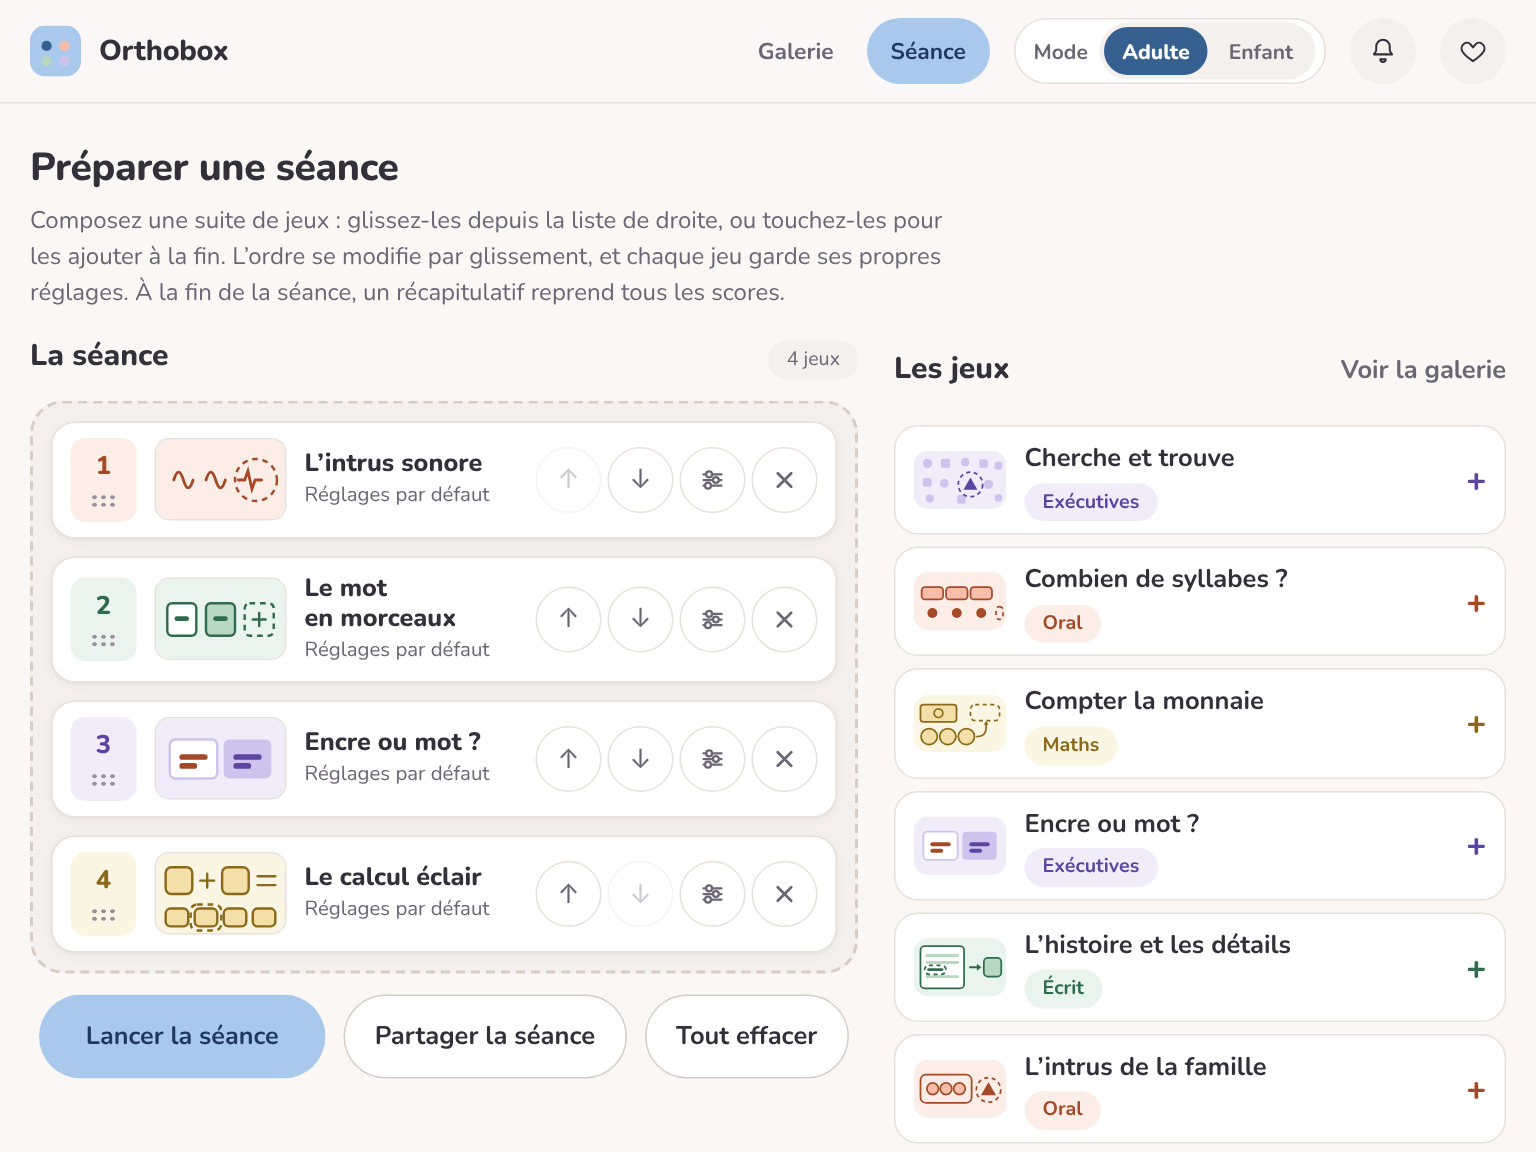
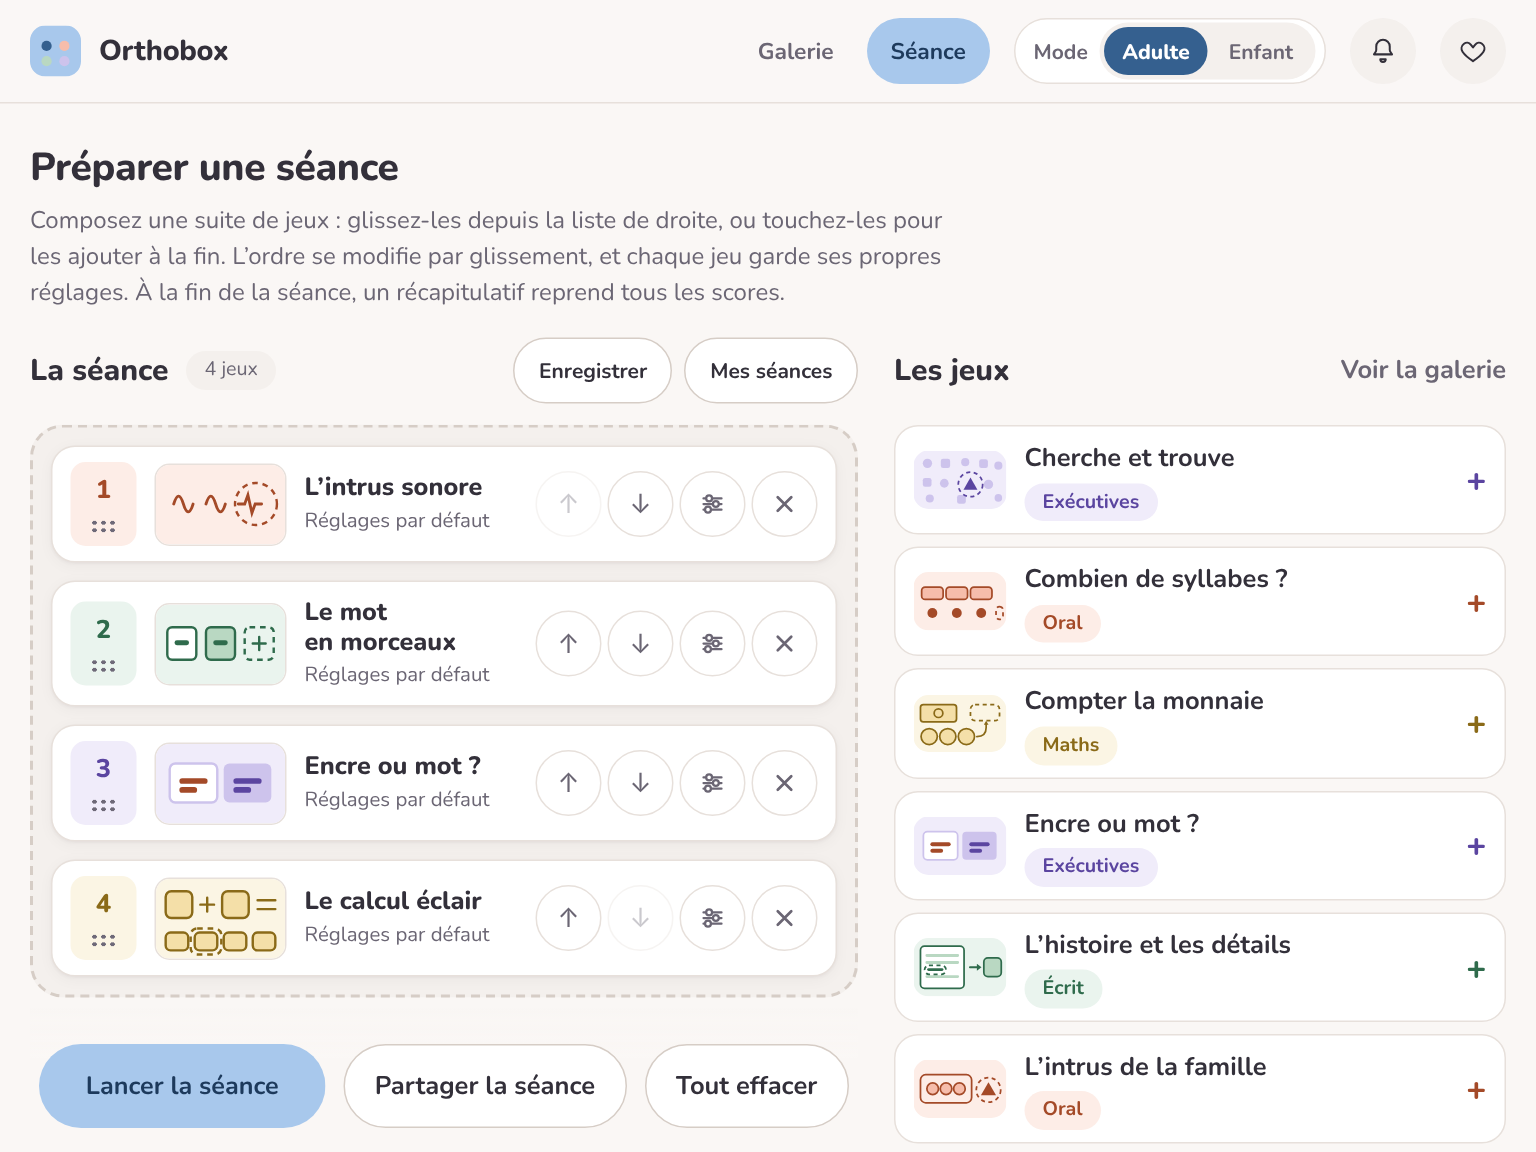
docs: show the saved sessions in the deck
The session screenshot shows the new « Enregistrer » and « Mes séances »
buttons, and the slide says a session can be saved and reopened.

Claude-Session: https://claude.ai/code/session_016HHi4xYsZ4sB7VrrvXoV7v

Changed region(s): [[0.0, 0.2812, 0.5625, 1.0], [0.5938, 0.3125, 0.6562, 0.3438]]

diff --git a/docs/presentation/index.html b/docs/presentation/index.html
@@ -299,8 +299,8 @@ var S = [
    html: '<section class="slide"><div class="kicker">La galerie</div><h3>42 jeux, quatre domaines</h3><div class="body"><div class="two"><div><div class="shot crop"><img src="' + IMG.galerie + '" alt="La galerie d’Orthobox, avec les filtres par domaine"></div><div class="covers"><img src="' + IMG.c.sound + '" alt=""><img src="' + IMG.c.scr + '" alt=""><img src="' + IMG.c.stroop + '" alt=""><img src="' + IMG.c.qty + '" alt=""></div></div><div class="doms"><div class="dom"><span class="shape sq" style="background:var(--oral-ink)"></span><div><b>Langage oral</b><span>11 jeux : phonologie, lexique, évocation, compréhension et expression</span></div></div><div class="dom"><span class="shape ci" style="background:var(--written-ink)"></span><div><b>Langage écrit</b><span>8 jeux : lecture, conscience syllabique, compréhension écrite, fluence</span></div></div><div class="dom"><span class="shape tr" style="background:var(--exec-ink)"></span><div><b>Fonctions exécutives</b><span>12 jeux : inhibition, mémoire de travail, attention, flexibilité</span></div></div><div class="dom"><span class="shape di" style="background:var(--math-ink)"></span><div><b>Cognition mathématique</b><span>11 jeux : sens du nombre, estimation, chaîne numérique, calcul</span></div></div></div></div></div>' + foot(4) + '</section>' },
  { id: 5, short: false, notes: 'Chaque jeu s’ouvre sur ses réglages : nombre d’essais, consigne, matériel. Le plateau n’est monté qu’à « Démarrer » : le patient ne voit rien avant. Le bloc « Consignes et objectifs » rappelle ce qui est travaillé et propose des variantes.',
    html: '<section class="slide"><div class="kicker">Un jeu</div><h3>Vous réglez, le patient découvre</h3><div class="body"><div class="duo"><div><div class="shot"><img src="' + IMG.reglages + '" alt="L’écran de réglages d’un jeu"></div><div class="cap"><span class="num">1</span>Vous réglez avant</div></div><div><div class="shot"><img src="' + IMG.jeu + '" alt="Un essai du jeu L’intrus sonore"></div><div class="cap"><span class="num">2</span>Puis le patient joue</div></div></div><div class="chips"><span class="chip">' + ICON.gear + 'Essais, consigne, matériel</span><span class="chip">' + ICON.play + 'Rien avant « Démarrer »</span><span class="chip">' + ICON.check + 'Consignes et objectifs</span></div></div>' + foot(5) + '</section>' },
- { id: 6, short: true, notes: 'Vous composez une suite de jeux en les glissant, au doigt ou à la souris. Chacun garde ses réglages et la séance reste dans le navigateur pour la fois suivante. À la fin, un bilan imprimable reprend les scores. Il n’est jamais stocké.',
-   html: '<section class="slide"><div class="kicker">La séance</div><h3>Composez une séance, imprimez le bilan</h3><div class="body"><div class="split"><div class="shot"><img src="' + IMG.seance + '" alt="Le mode Séance avec quatre jeux composés"></div><ul class="ticks"><li>' + ICON.check + '<p>On glisse les jeux, au doigt ou à la souris<small>Ou on les touche pour les ajouter à la fin.</small></p></li><li>' + ICON.check + '<p>Chaque jeu garde ses réglages<small>Et la séance reste d’une fois à l’autre.</small></p></li><li>' + ICON.check + '<p>Un bilan imprimable à la fin<small>Score de chaque jeu et total. Il n’est jamais stocké.</small></p></li></ul></div></div>' + foot(6) + '</section>' },
+ { id: 6, short: true, notes: 'Vous composez une suite de jeux en les glissant, au doigt ou à la souris. Chacun garde ses réglages, et vous enregistrez la séance sous un nom pour la rouvrir au rendez-vous suivant, dans ce navigateur. À la fin, un bilan imprimable reprend les scores. Il n’est jamais stocké.',
+   html: '<section class="slide"><div class="kicker">La séance</div><h3>Composez une séance, imprimez le bilan</h3><div class="body"><div class="split"><div class="shot"><img src="' + IMG.seance + '" alt="Le mode Séance avec quatre jeux composés"></div><ul class="ticks"><li>' + ICON.check + '<p>On glisse les jeux, au doigt ou à la souris<small>Ou on les touche pour les ajouter à la fin.</small></p></li><li>' + ICON.check + '<p>Chaque jeu garde ses réglages<small>Et on enregistre la séance pour la rouvrir au prochain rendez-vous.</small></p></li><li>' + ICON.check + '<p>Un bilan imprimable à la fin<small>Score de chaque jeu et total. Il n’est jamais stocké.</small></p></li></ul></div></div>' + foot(6) + '</section>' },
  { id: 7, short: false, notes: 'Un lien ou un QR code transmet un réglage ou une séance entière à une collègue, à une autre tablette, ou au patient pour s’entraîner chez lui. Il ne contient que des réglages : aucune donnée patient.',
    html: '<section class="slide"><div class="kicker">Partager</div><h3>Un lien ou un QR code, rien d’autre</h3><div class="body"><div class="steps3"><div class="step"><div class="num">1</div><b>Composer</b><span>Une séance, ou les réglages d’un seul jeu.</span></div><div class="step"><div class="num">2</div><b>Partager</b><span>« Partager la séance » donne un lien et un QR code.</span></div><div class="step"><div class="num">3</div><b>Ouvrir</b><span>Le destinataire voit d’abord un récapitulatif, puis lance quand il le décide.</span></div></div><div class="proof"><div class="shot"><img src="' + IMG.actions + '" alt="Les boutons Lancer la séance, Partager la séance et Tout effacer"></div><div class="safe">' + ICON.lock + '<span>Le lien ne contient que des réglages : aucune donnée patient, aucun résultat.</span></div></div></div>' + foot(7) + '</section>' },
  { id: 8, short: false, notes: 'Un interrupteur dans l’en-tête. En mode Enfant, un petit renard sourit et saute quand c’est juste, encourage quand ce ne l’est pas. Rien d’autre ne change : même matériel, mêmes réglages, même calcul du score. Les passations restent comparables.',
